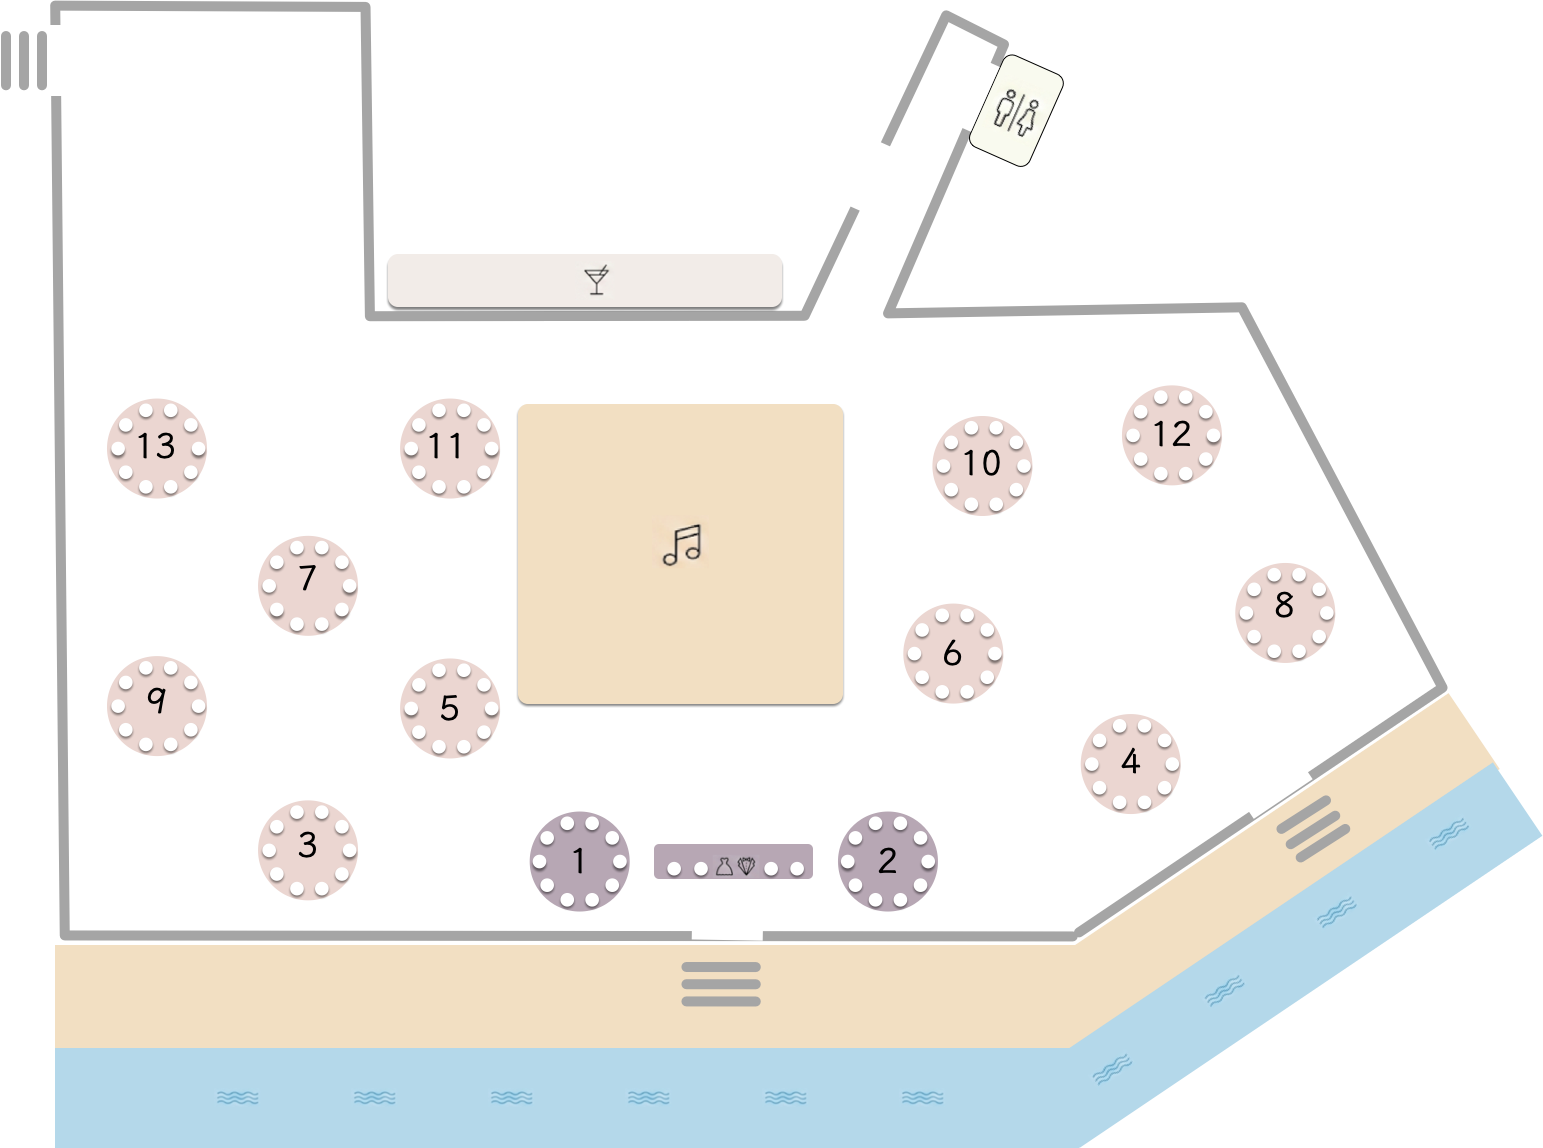
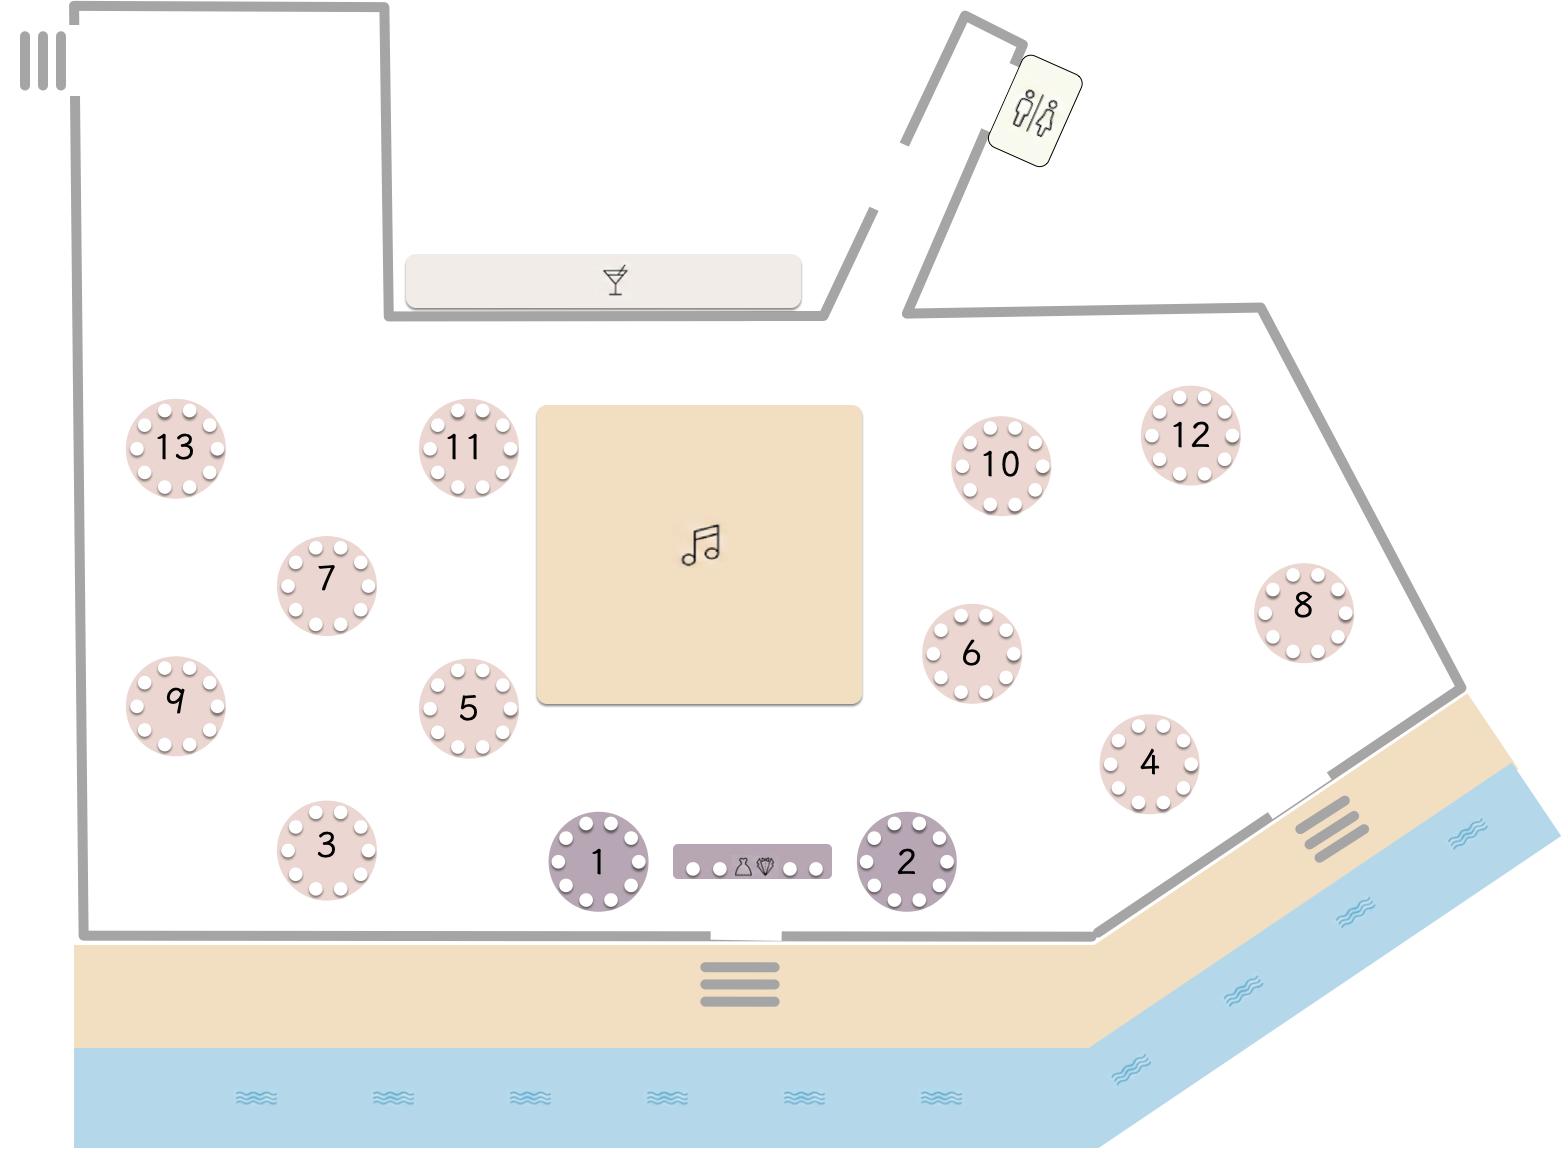
Add printable guest list functionality for admin
- Introduced `admin-guest-list-print.html` for generating printable guest lists with a detailed summary view.
- Added a new API endpoint (`/guest-list-print`) in `adminApi` and supporting logic in `adminExpansionController`.
- Integrated guest list print button in the admin panel UI.
- Added translations for the new print-related feature.

diff --git a/public/admin-guest-list-print.html b/public/admin-guest-list-print.html
@@ -1,0 +1,189 @@
+<!DOCTYPE html>
+<html lang="en">
+<head>
+  <meta charset="UTF-8">
+  <meta name="viewport" content="width=device-width, initial-scale=1.0">
+  <title>Guest List - Wedding of Iluminada & George</title>
+  <link rel="icon" href="/assets/images/favicon.svg" type="image/svg+xml"/>
+  <link rel="stylesheet" href="https://cdnjs.cloudflare.com/ajax/libs/font-awesome/6.0.0/css/all.min.css">
+  <style>
+    * { margin: 0; padding: 0; box-sizing: border-box; }
+    body { font-family: 'Inter', -apple-system, BlinkMacSystemFont, sans-serif; font-size: 11px; color: #2C1810; background: #fff; padding: 20px; }
+    h1 { font-family: 'Playfair Display', serif; font-size: 18px; color: #8B5A96; margin-bottom: 4px; }
+    .subtitle { font-size: 11px; color: #6B4E3D; margin-bottom: 12px; }
+    .print-btn { background: #8B5A96; color: #fff; border: none; padding: 8px 20px; border-radius: 6px; cursor: pointer; font-size: 12px; margin-bottom: 16px; }
+    .print-btn:hover { background: #7a4d85; }
+
+    table { width: 100%; border-collapse: collapse; font-size: 10px; }
+    thead th {
+      background: #f3eff5; color: #8B5A96; font-weight: 600; padding: 6px 4px;
+      border-bottom: 2px solid #d4b8dd; text-align: center; white-space: nowrap;
+    }
+    thead th:first-child { text-align: left; }
+    thead th i { font-size: 12px; }
+    thead th .th-label { display: block; font-size: 8px; font-weight: 400; color: #6B4E3D; margin-top: 1px; }
+
+    tbody td { padding: 4px; border-bottom: 1px solid #eee; vertical-align: top; text-align: center; }
+    tbody td:first-child { text-align: left; font-weight: 500; }
+    tbody td:nth-child(2) { text-align: left; color: #999; font-size: 9px; }
+    tbody td:nth-child(3) { text-align: left; font-size: 9px; color: #666; }
+
+    tfoot td { padding: 6px 4px; border-top: 2px solid #d4b8dd; text-align: center; font-weight: 700; font-size: 10px; color: #8B5A96; background: #f9f5fb; }
+    tfoot td:first-child { text-align: left; }
+
+    tr.party-first td { border-top: 2px solid #e8dced; }
+    tr.principal td:first-child { font-weight: 600; }
+    tr.member td:first-child { padding-left: 12px; font-weight: 400; color: #555; }
+
+    .check { color: #28a745; }
+    .xmark { color: #dc3545; }
+    .allergy-badges { display: flex; flex-wrap: wrap; gap: 2px; justify-content: flex-start; }
+    .allergy-badge {
+      display: inline-block; background: #fff3cd; color: #856404; border-radius: 3px;
+      padding: 1px 4px; font-size: 8px; font-weight: 500; white-space: nowrap;
+    }
+    .allergy-detail { font-size: 8px; color: #666; margin-top: 2px; font-style: italic; }
+
+    .summary { display: flex; gap: 20px; margin-bottom: 12px; font-size: 11px; color: #6B4E3D; }
+    .summary span { font-weight: 600; color: #8B5A96; }
+
+    @media print {
+      .print-btn, .no-print { display: none !important; }
+      body { padding: 0; font-size: 9px; }
+      table { font-size: 8px; }
+      thead th { font-size: 9px; }
+      thead th .th-label { font-size: 7px; }
+      @page { size: landscape; margin: 10mm; }
+    }
+  </style>
+</head>
+<body>
+  <button class="print-btn no-print" onclick="window.print()"><i class="fas fa-print"></i> Print</button>
+  <h1><i class="fas fa-heart" style="color:#D4A5A5;"></i> Iluminada & George - Guest List</h1>
+  <div class="subtitle" id="generated"></div>
+  <div class="summary" id="summary"></div>
+  <div id="error" style="display:none;color:#dc3545;padding:20px;"></div>
+  <table>
+    <thead>
+      <tr>
+        <th style="min-width:140px;"><i class="fas fa-user"></i><span class="th-label">Name</span></th>
+        <th><i class="fas fa-users"></i><span class="th-label">Party</span></th>
+        <th><i class="fas fa-envelope"></i><span class="th-label">Email</span></th>
+        <th><i class="fas fa-child"></i><span class="th-label">Child</span></th>
+        <th><i class="fas fa-glass-cheers"></i><span class="th-label">Pre</span></th>
+        <th><i class="fas fa-heart"></i><span class="th-label">Day</span></th>
+        <th><i class="fas fa-sun"></i><span class="th-label">Post</span></th>
+        <th><i class="fas fa-calendar-check"></i><span class="th-label">RSVP</span></th>
+        <th><i class="fas fa-user-secret"></i><span class="th-label">???</span></th>
+        <th><i class="fas fa-utensils"></i><span class="th-label">Menu</span></th>
+        <th style="min-width:120px;text-align:left;"><i class="fas fa-exclamation-triangle"></i><span class="th-label">Allergy</span></th>
+      </tr>
+    </thead>
+    <tbody id="tbody"></tbody>
+    <tfoot id="tfoot"></tfoot>
+  </table>
+
+  <script>
+    const token = localStorage.getItem('adminToken') || '';
+    if (!token) {
+      document.getElementById('error').style.display = 'block';
+      document.getElementById('error').textContent = 'Not authenticated. Please log in as admin first.';
+    } else {
+      load();
+    }
+
+    async function load() {
+      try {
+        const res = await fetch('/api/admin/guest-list-print', {
+          headers: { 'Authorization': 'Bearer ' + token }
+        });
+        if (!res.ok) throw new Error('API error: ' + res.status);
+        const data = await res.json();
+        render(data);
+      } catch (e) {
+        document.getElementById('error').style.display = 'block';
+        document.getElementById('error').textContent = 'Failed to load: ' + e.message;
+      }
+    }
+
+    function render(data) {
+      const { rows } = data;
+      document.getElementById('generated').textContent = 'Generated: ' + new Date().toLocaleDateString('en-GB', { day: 'numeric', month: 'short', year: 'numeric', hour: '2-digit', minute: '2-digit' });
+
+      const totalPeople = rows.length;
+      const totalParties = new Set(rows.map(r => r.principalName)).size;
+      const totalChildren = rows.filter(r => r.isChild).length;
+      const totalRsvp = rows.filter(r => r.hasRsvp).length;
+      document.getElementById('summary').innerHTML =
+        `<div>Total: <span>${totalPeople}</span> people in <span>${totalParties}</span> parties</div>` +
+        `<div>Children: <span>${totalChildren}</span></div>` +
+        `<div>RSVP'd: <span>${totalRsvp}</span></div>`;
+
+      const tbody = document.getElementById('tbody');
+      let lastPrincipal = '';
+
+      rows.forEach(r => {
+        const tr = document.createElement('tr');
+        const isNewParty = r.principalName !== lastPrincipal;
+        if (isNewParty) tr.classList.add('party-first');
+        tr.classList.add(r.isPrincipal ? 'principal' : 'member');
+        lastPrincipal = r.principalName;
+
+        const ck = '<i class="fas fa-check check"></i>';
+        const xm = '<i class="fas fa-times xmark"></i>';
+        const empty = '';
+
+        let allergyHtml = '';
+        if (r.allergies.badges.length > 0 || r.allergies.detail) {
+          const badgeLabels = { 'vegetarian': 'Veg', 'lactose-intolerant': 'Lactose', 'gluten-intolerant': 'Gluten', 'nut-allergy': 'Nut', 'other': 'Other' };
+          allergyHtml = '<div class="allergy-badges">' +
+            r.allergies.badges.map(b => `<span class="allergy-badge">${badgeLabels[b] || b}</span>`).join('') +
+            '</div>';
+          if (r.allergies.detail) allergyHtml += `<div class="allergy-detail">${r.allergies.detail}</div>`;
+        }
+
+        tr.innerHTML =
+          `<td>${r.name}</td>` +
+          `<td>${r.isPrincipal ? '' : r.principalName}</td>` +
+          `<td>${r.email}</td>` +
+          `<td>${r.isChild ? ck : empty}</td>` +
+          `<td>${r.attendance[0] ? ck : empty}</td>` +
+          `<td>${r.attendance[1] ? ck : empty}</td>` +
+          `<td>${r.attendance[2] ? ck : empty}</td>` +
+          `<td>${r.hasRsvp ? ck : empty}</td>` +
+          `<td>${r.isUnnamed ? xm : empty}</td>` +
+          `<td>${r.hasMenu ? ck : empty}</td>` +
+          `<td style="text-align:left;">${allergyHtml}</td>`;
+
+        tbody.appendChild(tr);
+      });
+
+      const totals = {
+        parties: totalParties,
+        children: totalChildren,
+        pre: rows.filter(r => r.attendance[0]).length,
+        day: rows.filter(r => r.attendance[1]).length,
+        post: rows.filter(r => r.attendance[2]).length,
+        rsvp: totalRsvp,
+        unnamed: rows.filter(r => r.isUnnamed).length,
+        menu: rows.filter(r => r.hasMenu).length
+      };
+
+      document.getElementById('tfoot').innerHTML =
+        `<tr>` +
+        `<td>${totalPeople}</td>` +
+        `<td>${totals.parties}</td>` +
+        `<td></td>` +
+        `<td>${totals.children}</td>` +
+        `<td>${totals.pre}</td>` +
+        `<td>${totals.day}</td>` +
+        `<td>${totals.post}</td>` +
+        `<td>${totals.rsvp}</td>` +
+        `<td>${totals.unnamed}</td>` +
+        `<td>${totals.menu}</td>` +
+        `<td></td>` +
+        `</tr>`;
+    }
+  </script>
+</body>
+</html>

diff --git a/server/controllers/adminExpansionController.js b/server/controllers/adminExpansionController.js
@@ -809,6 +809,110 @@ async function getGuestsWithoutParty(req, res, next) {
   } catch (e) { next(e); }
 }
 
+// ========== Printable Guest List ==========
+async function getGuestListPrint(req, res, next) {
+  try {
+    const guests = await Guest.find({}).lean();
+    const events = await Event.find({}).sort({ date: 1 }).lean();
+    const eventChoices = await EventChoice.find({}).lean();
+    const menuChoices = await MenuChoice.find({}).lean();
+
+    const eventIds = events.map(e => e._id.toString());
+    const rows = [];
+
+    guests.forEach(g => {
+      const guestId = g._id.toString();
+      const ec = eventChoices.find(c => c.guestId.toString() === guestId);
+      const mc = menuChoices.find(c => c.guestId.toString() === guestId);
+
+      const findPartyChoice = (collection, ...candidates) => {
+        const doc = collection === 'ec' ? ec : mc;
+        if (!doc?.partyChoices) return null;
+        for (const id of candidates) {
+          const match = doc.partyChoices.find(p => p.partyGuestId === id)
+            || doc.partyChoices.find(p => p.partyGuestId === String(id));
+          if (match) return match;
+        }
+        return null;
+      };
+
+      const getAttendance = (...ids) => {
+        const pc = findPartyChoice('ec', ...ids);
+        return eventIds.map(eid => {
+          const choice = pc?.choices?.find(c => c.eventId?.toString() === eid);
+          return choice?.attending || false;
+        });
+      };
+
+      const hasAnyRsvp = (...ids) => {
+        const pc = findPartyChoice('ec', ...ids);
+        return pc?.choices?.some(c => c.attending) || false;
+      };
+
+      const hasMenuChoices = (...ids) => {
+        const pc = findPartyChoice('mc', ...ids);
+        return pc?.choices?.length > 0;
+      };
+
+      const getAllergies = (...ids) => {
+        const pc = findPartyChoice('mc', ...ids);
+        const badges = (pc?.specialRequests || []).filter(sr => sr.selected).map(sr => sr.name);
+        const detail = pc?.specialRequestDetail || '';
+        return { badges, detail };
+      };
+
+      const attendance = getAttendance(guestId);
+      const allergies = getAllergies(guestId);
+      rows.push({
+        name: g.name,
+        principalName: g.name,
+        email: g.email || '',
+        isChild: g.adult === false,
+        isPrincipal: true,
+        attendance,
+        hasRsvp: hasAnyRsvp(guestId),
+        isUnnamed: false,
+        hasMenu: hasMenuChoices(guestId),
+        allergies
+      });
+
+      (g.partyMembers || []).forEach(pm => {
+        const candidates = [pm.id, pm.name, `member-${pm.id}`];
+        const unnamed = /- Guest \d+$/.test(pm.name);
+        rows.push({
+          name: pm.name,
+          principalName: g.name,
+          email: '',
+          isChild: pm.adult === false,
+          isPrincipal: false,
+          attendance: getAttendance(...candidates),
+          hasRsvp: hasAnyRsvp(...candidates),
+          isUnnamed: unnamed,
+          hasMenu: hasMenuChoices(...candidates),
+          allergies: getAllergies(...candidates)
+        });
+      });
+    });
+
+    rows.sort((a, b) => {
+      const pc = a.principalName.localeCompare(b.principalName);
+      if (pc !== 0) return pc;
+      if (a.isPrincipal && !b.isPrincipal) return -1;
+      if (!a.isPrincipal && b.isPrincipal) return 1;
+      return a.name.localeCompare(b.name);
+    });
+
+    res.json({
+      events: events.map(e => ({
+        id: e._id.toString(),
+        name: e.name,
+        date: e.date
+      })),
+      rows
+    });
+  } catch (e) { next(e); }
+}
+
 module.exports = {
   getGuestSummary,
   listChefProfiles, createChefProfile, updateChefProfile, deleteChefProfile,
@@ -822,5 +926,6 @@ module.exports = {
   getAdminEventChoices,
   getGuestsWithoutEventChoices,
   getGuestsWithoutMenuChoices,
-  getGuestsWithoutParty
+  getGuestsWithoutParty,
+  getGuestListPrint
 };

diff --git a/public/js/i18n.js b/public/js/i18n.js
@@ -426,6 +426,7 @@ const translations = {
     'admin:guests.acrossParties': 'Across {{count}} {{partyWord}}',
     'admin:guests.addGuest': 'Add Guest',
     'admin:guests.bulkUploadCsv': 'Bulk Upload CSV',
+    'admin:guests.printList': 'Print List',
     'admin:guests.table.email': 'Email',
     'admin:guests.table.partySize': 'Party Size',
     'admin:guests.table.actions': 'Actions',
@@ -1167,6 +1168,7 @@ const translations = {
     'admin:guests.acrossParties': 'En {{count}} {{partyWord}}',
     'admin:guests.addGuest': 'Añadir invitado',
     'admin:guests.bulkUploadCsv': 'Subir CSV masivo',
+    'admin:guests.printList': 'Imprimir lista',
     'admin:guests.table.email': 'Correo electrónico',
     'admin:guests.table.partySize': 'Tamaño del grupo',
     'admin:guests.table.actions': 'Acciones',
@@ -1908,6 +1910,7 @@ const translations = {
     'admin:guests.acrossParties': 'Répartis sur {{count}} {{partyWord}}',
     'admin:guests.addGuest': 'Ajouter un invité',
     'admin:guests.bulkUploadCsv': 'Import CSV en masse',
+    'admin:guests.printList': 'Imprimer la liste',
     'admin:guests.table.email': 'Email',
     'admin:guests.table.partySize': 'Taille du groupe',
     'admin:guests.table.actions': 'Actions',
@@ -2649,6 +2652,7 @@ const translations = {
     'admin:guests.acrossParties': 'Verteilt auf {{count}} {{partyWord}}',
     'admin:guests.addGuest': 'Gast hinzufügen',
     'admin:guests.bulkUploadCsv': 'CSV-Sammelimport',
+    'admin:guests.printList': 'Liste drucken',
     'admin:guests.table.email': 'E-Mail',
     'admin:guests.table.partySize': 'Gruppengröße',
     'admin:guests.table.actions': 'Aktionen',

diff --git a/public/js/admin.js b/public/js/admin.js
@@ -1881,6 +1881,8 @@
               <span data-i18n="admin:guests.addGuest">${translate('admin:guests.addGuest')}</span></button>
               <button id="bulkUploadGuests" class="btn btn-info" style="margin-left:8px;"><i class="fas fa-file-upload"></i> 
               <span data-i18n="admin:guests.bulkUploadCsv">${translate('admin:guests.bulkUploadCsv')}</span></button>
+              <button onclick="window.open('admin-guest-list-print.html','_blank')" class="btn" style="margin-left:8px;background:var(--gray-200);color:var(--text-dark);"><i class="fas fa-print"></i> 
+              <span data-i18n="admin:guests.printList">${translate('admin:guests.printList')}</span></button>
             </div>
           </div>
           <div class="table-container">

diff --git a/server/api/routes/adminApi.js b/server/api/routes/adminApi.js
@@ -326,4 +326,6 @@ router.get('/guests-without-event-choices', auth('admin'), adminExpCtrl.getGuest
 router.get('/guests-without-menu-choices', auth('admin'), adminExpCtrl.getGuestsWithoutMenuChoices);
 router.get('/guests-without-party', auth('admin'), adminExpCtrl.getGuestsWithoutParty);
 
+router.get('/guest-list-print', auth('admin'), adminExpCtrl.getGuestListPrint);
+
 module.exports = router;
